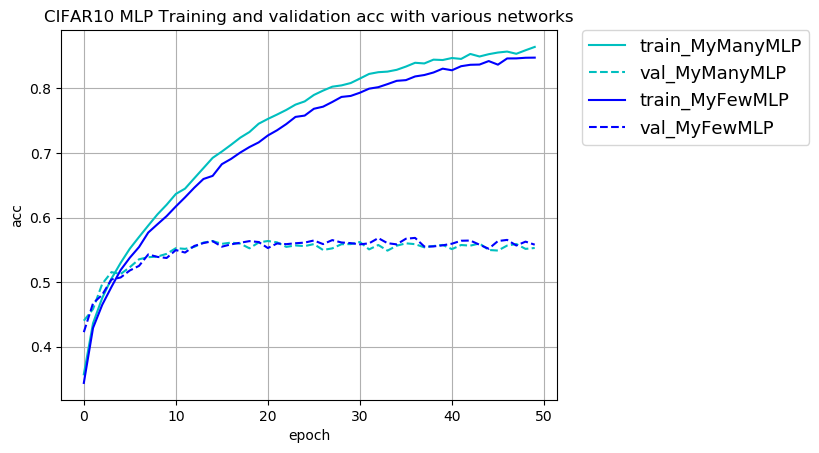
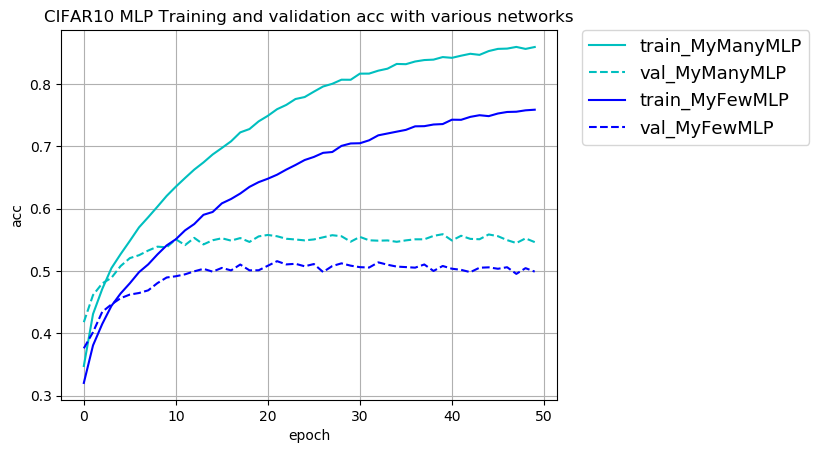
update NetworkComparison_in_CIFAR10_MLP 0521

diff --git a/CIFAR10/MLP/NetworkComparison_in_CIFAR10_MLP/NetworkComparison_in_CIFAR10_MLP.py b/CIFAR10/MLP/NetworkComparison_in_CIFAR10_MLP/NetworkComparison_in_CIFAR10_MLP.py
@@ -82,8 +82,11 @@ class ManyMLPNet(nn.Module):
         self.fc4 = nn.Linear(1024, 1024) # 1024の配列を1024に線形変換
         nn.init.kaiming_normal_(self.fc4.weight)
         self.bn4 = nn.BatchNorm1d(1024)
-        self.fc5 = nn.Linear(1024, 10) # 1024の配列を10に線形変換(出力)
+        self.fc5 = nn.Linear(1024, 1024) # 1024の配列を1024に線形変換
         nn.init.kaiming_normal_(self.fc5.weight)
+        self.bn5 = nn.BatchNorm1d(1024)
+        self.fc6 = nn.Linear(1024, 10) # 1024の配列を10に線形変換(出力)
+        nn.init.kaiming_normal_(self.fc6.weight)
         self.dropout1 = nn.Dropout2d(0.2)
         self.dropout2 = nn.Dropout2d(0.2)
 
@@ -94,7 +97,8 @@ class ManyMLPNet(nn.Module):
         x = self.dropout2(x)
         x = F.relu(self.bn3(self.fc3(x)))
         x = F.relu(self.bn4(self.fc4(x)))
-        return self.fc5(x)
+        x = F.relu(self.bn5(self.fc5(x)))
+        return self.fc6(x)
 
 # Multi Layer Perceptron Network
 # 多層ニューラルネットワークの構築。多層にする。今回は3層。
